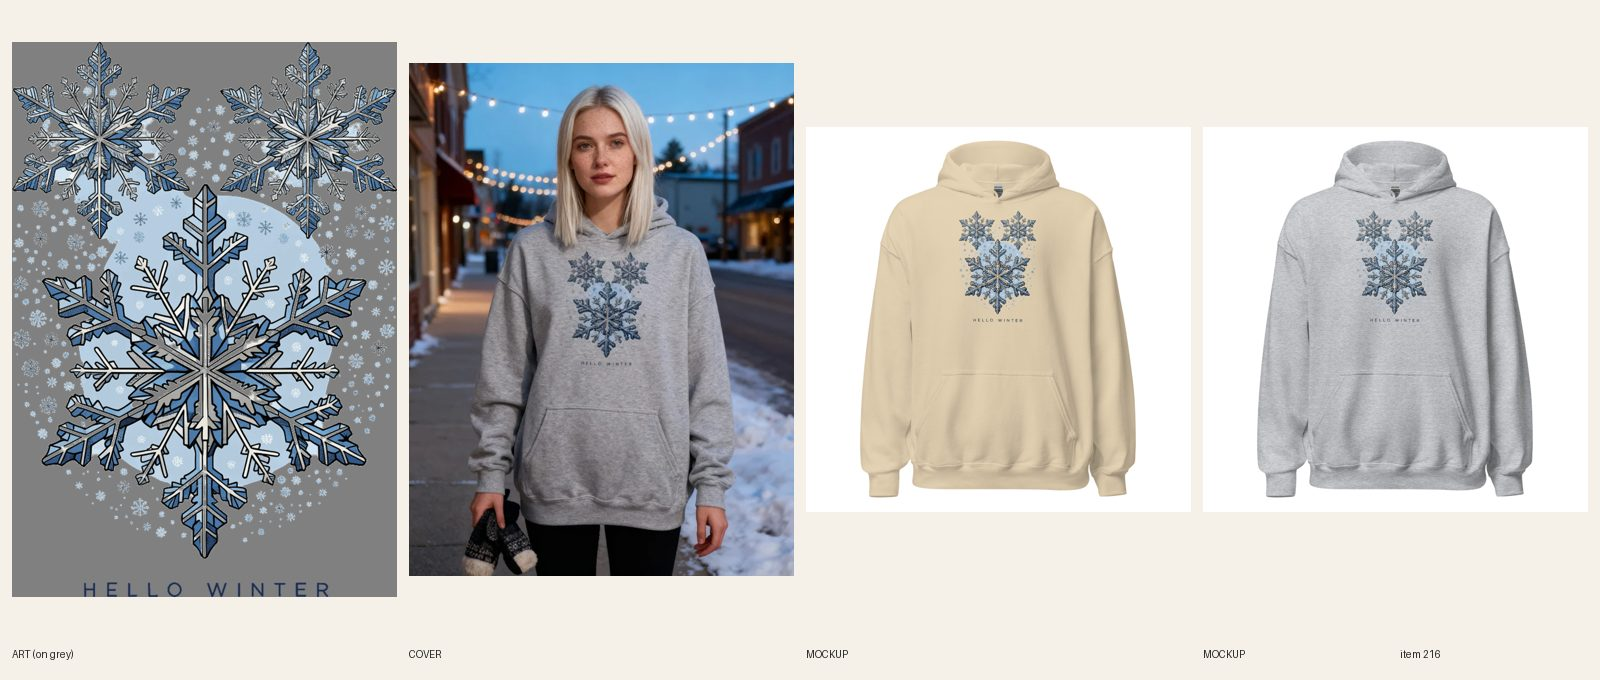
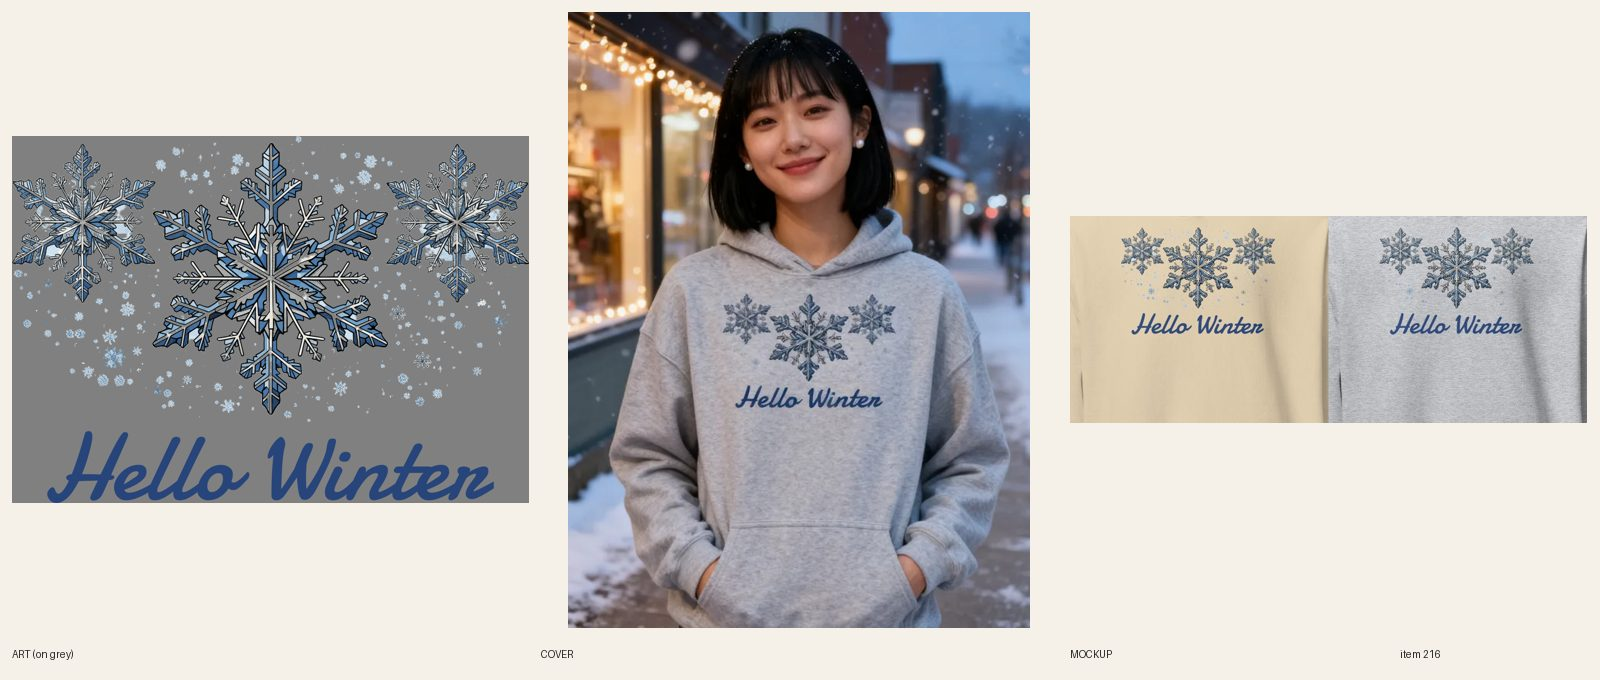
[A] 216 hello winter hoodie redo built (resync running)

diff --git a/src/data/covers.ts b/src/data/covers.ts
@@ -220,7 +220,7 @@ export const covers: Record<string, { src: string; alt: string }> = {
   'mens-gym-sore-since-1987-hoodie': { src: '/covers/mens-gym-sore-since-1987-hoodie.webp', alt: 'Man in his mid 40s with a salt-and-pepper beard standing on an old gym stairwell beside a chalked handrail, wearing the Sore Since 1987 hoodie in sand' },
   'mens-hunting-quack-of-dawn-camo-hoodie': { src: '/covers/mens-hunting-quack-of-dawn-camo-hoodie.webp', alt: 'Man in his late 30s with a long braid standing at a misty marsh at sunrise with duck decoys behind him, wearing the Quack of Dawn duck camo hoodie' },
   'mens-fishing-casting-doubt-zip-hoodie': { src: '/covers/mens-fishing-casting-doubt-zip-hoodie.webp', alt: 'Man in his late 40s with a ginger beard and a bucket hat seen from behind beside a mountain trout stream at first light, wearing the Casting Doubt zip hoodie in ash with the full back print' },
-  'womens-christmas-hello-winter-snowflakes-hoodie': { src: '/covers/womens-christmas-hello-winter-snowflakes-hoodie.webp', alt: 'Woman with platinum shoulder-length hair and freckles in a Sport Grey Hello Winter snowflakes hoodie on a snowy small-town sidewalk with string lights' },
+  'womens-christmas-hello-winter-snowflakes-hoodie': { src: '/covers/womens-christmas-hello-winter-snowflakes-hoodie.webp', alt: 'Woman with a sleek black bob and pearl studs in a Sport Grey Hello Winter snowflakes hoodie on a snowy small-town sidewalk with string lights' },
   'womens-christmas-ho-ho-howdy-hoodie': { src: '/covers/womens-christmas-ho-ho-howdy-hoodie.webp', alt: 'Woman in a cowboy hat with a twist-out in a Sand Ho Ho Howdy cowboy Santa hoodie on a ranch porch with a wreath and hay bales' },
   'womens-christmas-pink-christmas-trees-crewneck-sweatshirt': { src: '/covers/womens-christmas-pink-christmas-trees-crewneck-sweatshirt.webp', alt: 'Woman smiling in front of a gray and peach wall, wearing the light pink Pink Christmas Trees crewneck sweatshirt' },
   'womens-western-howdy-hoodie': { src: '/covers/womens-western-howdy-hoodie.webp', alt: 'Woman in a tan cowgirl hat at a rodeo arena fence at sunset wearing the Howdy navy hoodie with the pink cowgirl hat and steer skull print' },

diff --git a/docs/pipeline/216-christmas-hoodie-hello-winter-snowflakes.md b/docs/pipeline/216-christmas-hoodie-hello-winter-snowflakes.md
@@ -1,4 +1,4 @@
-status: REDO
+status: BUILDING [A] 2026-10-17 19:55 UTC
 lane: A
 type: twin
 id: 216
@@ -24,3 +24,4 @@ handle: womens-christmas-hello-winter-snowflakes-hoodie
   1. R6.2 / R3.7.6: the HELLO WINTER line is a typeset sans with even, wide letter spacing, and it is too small to read on the cover at phone size. Re-letter it by hand (one lettering-only Recraft generation, composed in print-prep, the #234 method), at least about 60% of the art width.
   2. R4.1: the pale blue disc behind the big snowflake is a background shape. Break it up into scattered snow/worn texture or erase it so the snowflakes are the shape.
   3. R3.1: while you re-letter, the line may take a small twist if one fits (e.g. 'Hello Winter' stays fine as the women's winter line; do not invent a slogan). Re-check light blue art on Sand (R5.3.8).
+- 2026-10-17 19:55 UTC builder [A] REDO 216: (1) R4.1: erased the pale-blue disc (color-keyed large components, no new art). (2) R6.2/R3.7.6: deleted the typeset HELLO WINTER line and set "Hello Winter" in Damion script, navy, 86% of the print width. (3) Reshaped the art for the hoodie: the old file was 3600x5192 at FW 1109 (a width violation, R5.3.2); re-composed the three flakes in a row with re-scattered flecks: 3600x2555 px, printed FW 1650 TOP 0 (about 7.1 in tall, clears the pouch). New Printful file 1088440879. Mockups Sand + Sport Grey read at phone size (navy script and blue flakes read on both). New fal cover (the old one showed the old art): woman (registry 803), Sport Grey hoodie with hood, hands in pocket, Grey mockup as --design, 1 attempt. Copy: art paragraph rewritten (no glow/small spaced capitals), FAQ 5 x 40-60 words incl. Dec 8 order-by, SEO meta. Audit PASS. fal ~$0.03. Printful resync running (12 variants): REVIEW once synced = 12.

diff --git a/docs/model-registry.md b/docs/model-registry.md
@@ -584,3 +584,4 @@ Rows 11–43 were re-pointed on 2026-10-08 when the briefs were rewritten from d
 | 694 | white man, late 40s, close-cropped grey hair and a short grey beard, broad build | RESERVED — #484 Sisyphus crewneck cover |
 | 801 | Pakistani-American man, early 40s, short dark hair, trimmed beard | USED 2026-10-17 — #205 North Woods Moose hoodie cover redo (with #802, seedream, 1 attempt; hoods visible, woman's CHRISTMAS slightly soft) |
 | 802 | Black woman, mid 30s, natural curls under a cream knit beanie, small gold hoops | USED 2026-10-17 — #205 North Woods Moose hoodie cover redo (with #801) |
+| 803 | Korean-American woman, late 20s, sleek black bob with wispy bangs, small pearl studs | USED 2026-10-17 — #216 Hello Winter hoodie cover redo (seedream, 1 attempt) |
